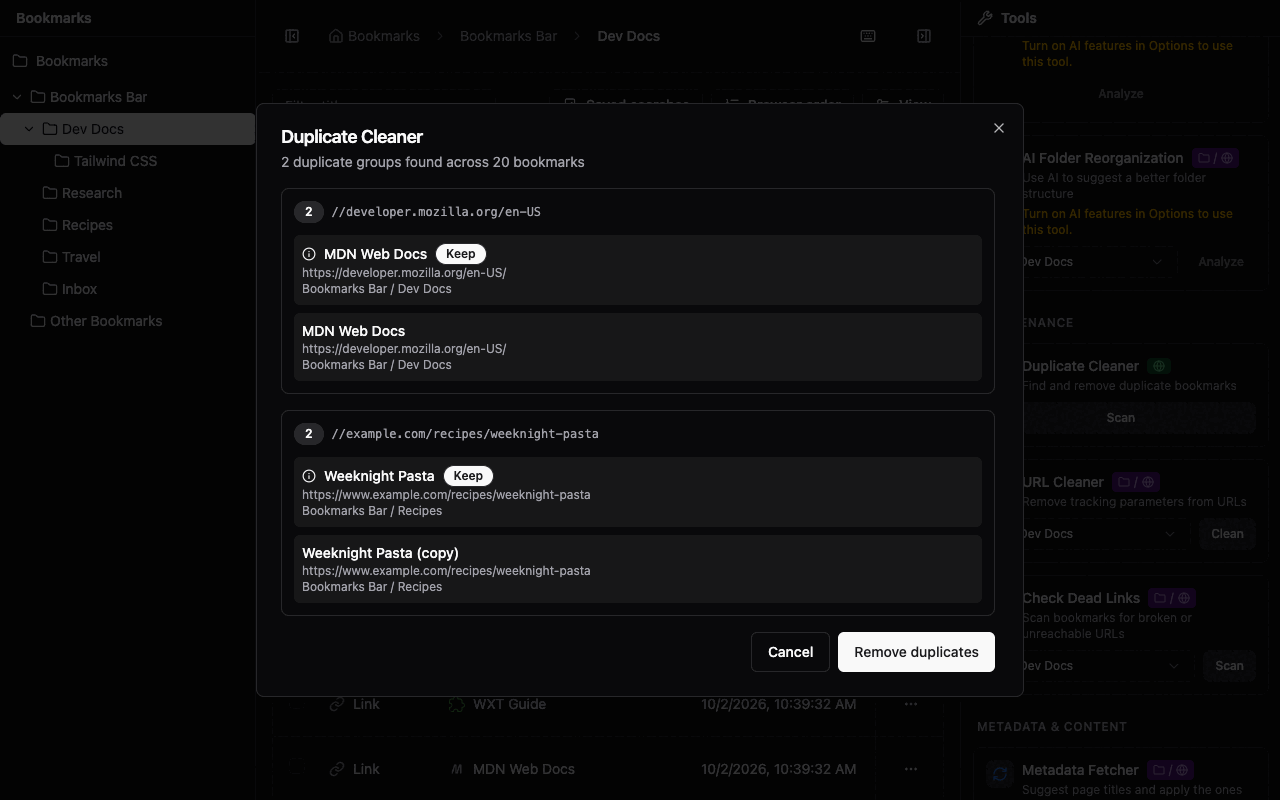
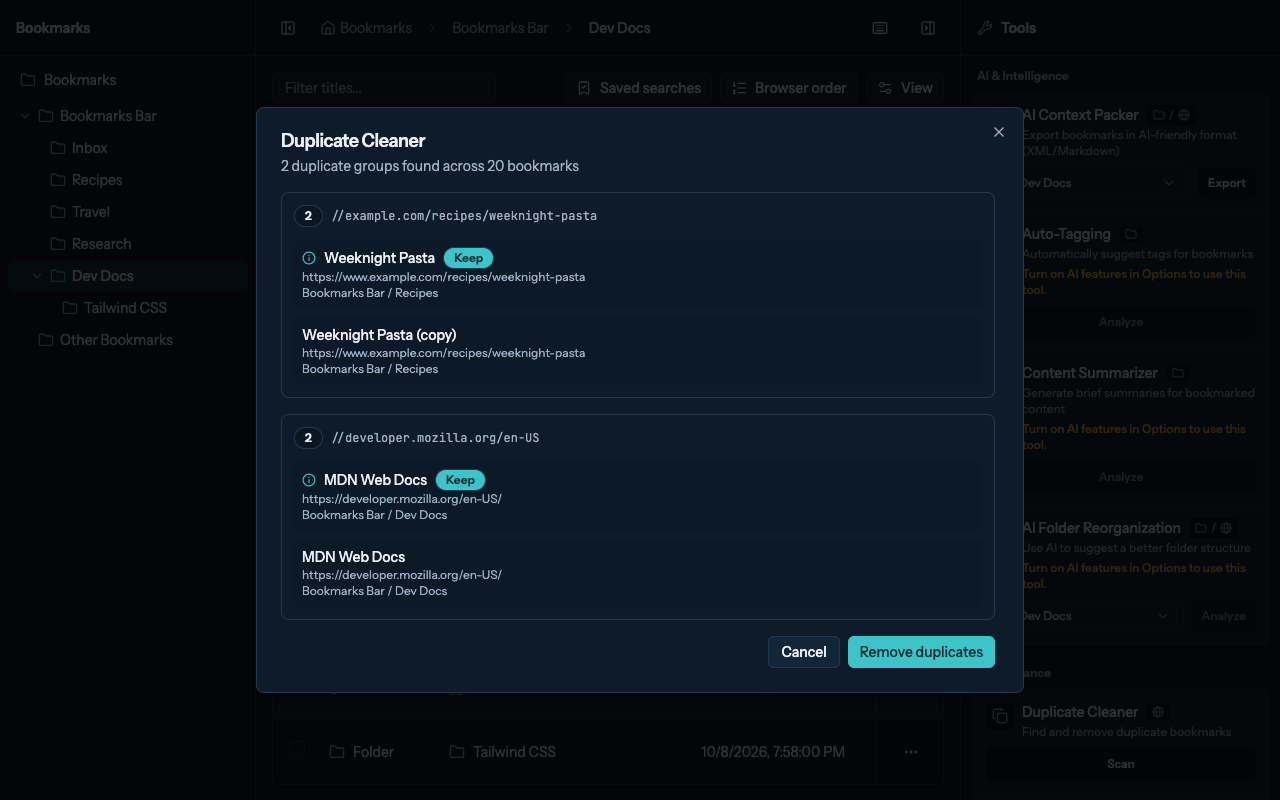
📸 docs(store): recapture store screenshots for the redesigned UI
- Recapture the popup, manager, and Duplicate Cleaner screenshots (light and
  dark) from the current build, with real site icons and synthetic bookmarks.
- Add a padded 128 px store icon (artwork 96 px tall) for the listing only;
  the packaged toolbar icons are unchanged.
- Add store/ai-asset-prompts.md: prompts, input files, and output paths for
  generating the marquee tile, promo tile, logo master, and video bumpers.

diff --git a/store/ai-asset-prompts.md b/store/ai-asset-prompts.md
@@ -1,0 +1,97 @@
+# AI Asset Prompts (Chrome Web Store)
+
+Prompts for an external image and video model to make the Bookmark Scout store artwork. Paths are relative to the repository root.
+
+## Rules for every asset
+
+- **Never generate screenshots or product UI.** Store screenshots and the demo part of the video must show the real extension (`store/screenshots/`, captured with the `extension-exploratory-qa` runner). AI-drawn UI misrepresents the product.
+- **Never let the model draw the logo or the name.** Leave empty space and place the real logo and text afterwards. Models distort logos and misspell text.
+- **Brand:** calm "map reader" look: paper, ink, compass. Gradient only `#2bb3b1` → `#4f6ce0` → `#8a3fd1`. Paper `#f4f7fb` (light) or `#0d1b2a` (dark). Ink `#0f2135`. Marker highlight `#ffe27a`. Flat vector, soft shadows, no people.
+- **Store image format:** exact pixel size, JPEG or 24-bit PNG, **no alpha**. Convert after generating:
+  ```bash
+  magick <file>.png -alpha off -type TrueColor -define png:color-type=2 <file>.png
+  ```
+
+## Input files (upload as references)
+
+| File | Size | Use |
+| --- | --- | --- |
+| `apps/extension/public/icon-128.png` | 128×128, real transparency | Logo reference for shape and colors |
+| `apps/website/public/icon.png` | 128×128, real transparency | Same logo, website copy |
+| `store/assets/icon-original.png` | 2048×2048, **no alpha** | High-resolution logo. The grey checkerboard is painted into the pixels, not real transparency; tell the model to ignore it |
+| `store/screenshots/promo-small-440x280.png` | 440×280 | Current small tile, for comparison only |
+
+## Output files
+
+Save raw model outputs outside the repository in `~/.cache/bookmark-scout-assets/raw/`. Put only the final, converted files at these paths:
+
+| Asset | Final path | Size | Required |
+| --- | --- | --- | --- |
+| Logo master | `store/assets/logo-master-2048.png` | 2048×2048, real transparency | Source for the icon below |
+| Store icon | `store/assets/store-icon-128.png` | 128×128, artwork about 96×96 centered | Exists (made from `icon-128.png`); regenerate from the master for a sharper result |
+| Marquee promo tile | `store/assets/marquee-1400x560.png` | 1400×560, no alpha | Optional, needed for homepage features |
+| Small promo tile | `store/screenshots/promo-small-440x280.png` (replace) | 440×280, no alpha | Yes, already uploaded once |
+| Video intro | `~/.cache/bookmark-scout-assets/video/intro.mp4` | 1920×1080, 3 to 5 s | For the YouTube promo video |
+| Video outro | `~/.cache/bookmark-scout-assets/video/outro.mp4` | 1920×1080, 3 to 5 s | For the YouTube promo video |
+
+Videos stay out of the repository; the store takes a YouTube URL.
+
+## 1. Logo master (clean transparency)
+
+Input: `store/assets/icon-original.png`.
+
+```text
+Recreate this exact logo as a clean vector-style image, 2048x2048 px, on a truly transparent background. The grey and white checkerboard in the input is not part of the logo; remove it completely. Keep the shape, proportions, and colors identical: a bookmark ribbon with a notched bottom, a magnifier ring on top with a handle to the lower right, and an eight-point compass star inside the ring, colored with a teal-to-violet gradient (#2bb3b1 to #4f6ce0 to #8a3fd1). Do not add text, shadows, or a background. Center the artwork with equal padding.
+```
+
+Then make the store icon (artwork about 96 px on a 128 px canvas):
+
+```bash
+magick store/assets/logo-master-2048.png -trim -resize 96x96 -gravity center -background none -extent 128x128 store/assets/store-icon-128.png
+```
+
+## 2. Marquee promo tile (1400×560)
+
+Input: `apps/extension/public/icon-128.png` (style reference only).
+
+```text
+Wide banner, exactly 1400x560 px, for a browser extension called "Bookmark Scout". Calm, premium, minimal. Background: soft paper white #f4f7fb with a very faint topographic map contour pattern and a subtle compass rose in the far right, low contrast. Left third: leave clean empty space for a logo and the name (do not draw any text or letters). Right two thirds: an abstract composition of floating bookmark ribbons and folder shapes arranged like a tidy map, a few connected by thin dotted route lines, one ribbon highlighted with a soft yellow marker glow #ffe27a. Color accents only from a teal-to-violet gradient #2bb3b1 to #4f6ce0 to #8a3fd1, ink color #0f2135 for thin line work. Flat vector illustration, soft shadows, no 3D, no people, no browser UI, no text, no watermark. Opaque background, no transparency.
+```
+
+Afterwards: place `store/assets/logo-master-2048.png` (about 200 px tall) and "Bookmark Scout" in Bricolage Grotesque, ink `#0f2135`, in the empty left third.
+
+## 3. Small promo tile (440×280)
+
+Input: `apps/extension/public/icon-128.png` (style reference only).
+
+```text
+Small tile, exactly 440x280 px, for the browser extension "Bookmark Scout". Centered composition: leave a clear empty square in the center (about 140x140 px) for the app logo; do not draw a logo or any text. Around it: a soft radial glow in the teal-to-violet gradient #2bb3b1 to #4f6ce0 to #8a3fd1 at low opacity, a faint topographic contour pattern, and two or three small bookmark ribbon shapes orbiting at the edges. Background paper white #f4f7fb. Flat vector, minimal, calm, readable at small size. No text, no letters, no UI, no watermark. Opaque background, no transparency.
+```
+
+Afterwards: place the logo (about 120 px) in the center. Google's guidance is to avoid text on promo tiles, so the name is optional.
+
+## 4. Video intro and outro (16:9)
+
+Input: `store/assets/logo-master-2048.png` (color reference only).
+
+Intro:
+
+```text
+5-second brand intro, 16:9, 1920x1080. A single bookmark ribbon in a teal-to-violet gradient (#2bb3b1 to #8a3fd1) unfurls on a paper-white background (#f4f7fb) with faint topographic map lines; a small compass star spins once and settles on the ribbon, then the scene gently fades to plain #f4f7fb, leaving empty space in the center for a logo. Calm, smooth, slow camera, flat vector motion-graphics style. No text, no people, no browser interface.
+```
+
+Outro:
+
+```text
+4-second brand outro, 16:9, 1920x1080. Paper-white background (#f4f7fb) with faint topographic map lines drifting slowly; a soft teal-to-violet glow (#2bb3b1 to #8a3fd1) pulses once in the center, leaving a clean empty center area for a logo and a website address. Calm, flat vector motion-graphics style. No text, no people, no browser interface.
+```
+
+Afterwards: overlay the logo, and on the outro add `bookmark-scout.com`. The middle 30 to 45 seconds is a real screen recording of the extension (popup search and save, manager, Duplicate Cleaner, AI folder suggestions) made from the built extension with synthetic bookmarks.
+
+## Check before uploading
+
+```bash
+sips -g pixelWidth -g pixelHeight -g hasAlpha store/assets/marquee-1400x560.png store/screenshots/promo-small-440x280.png store/assets/store-icon-128.png
+```
+
+Tiles must report `hasAlpha: no`. The 128 px icon may keep transparency.

diff --git a/store/README.md b/store/README.md
@@ -102,7 +102,7 @@ Suggested order for the Chrome Web Store (5 maximum): 01, 02, 03, 04, 06. Firefo
 - Theme left at the default `system`; light and dark come from the emulated OS color scheme, so Options shows no "Modified" badges.
 - The runner opens the popup as a tab, so its "current tab" would be the popup itself. The capture script stubbed `tabs.query` for the active tab to return a public MDN page instead. No other behavior was changed.
 - Site icons are real: before capturing, the script ran **Refresh Site Icons** over all bookmarks and saved the results, in a copy of the build whose manifest grants the optional website access (as the E2E `grantWebHostAccess` fixture does, because the permission prompt cannot be answered headlessly). Icons came only from the bookmarked sites. Sites without a usable same-site icon (`developer.chrome.com`, `example.com`, `example.org`) keep the generic globe, as they would for a user.
-- Recaptured on 2026-10-02 from `main` after the Refresh Site Icons tool landed (#501). The two Options captures (`04-options-ai-light.png`, `08-options-ai-dark.png`) were recaptured on 2026-10-08 for the redesigned Options page and the new AI toggle text; they are plain 1280×800 page captures of `options.html` with the AI section selected. The same eight files are copied to `apps/website/public/screenshots/` and `apps/docs/public/screenshots/`; the website generates its AVIF and WebP variants from them at build time.
+- Recaptured on 2026-10-02 from `main` after the Refresh Site Icons tool landed (#501). All eight were recaptured on 2026-10-08 for the redesigned UI: the popup pair (`01`, `05`) is composed from two 400×500 popup captures on the brand paper color with the Bricolage Grotesque heading, and the other six are plain 1280×800 page captures. A padded store icon (`store/assets/store-icon-128.png`, artwork 96 px tall on a 128 px canvas) is used for the store listing only; the packaged toolbar icons are unchanged.
 - Raw captures stay in `~/.cache/bookmark-scout-qa/store-icons/` (not committed). Curated files were re-encoded with ImageMagick (reduced palette, saved as 24-bit RGB without alpha) to keep each file around 75 to 130 KB.
 
 Screenshots show the English UI. Localized screenshots for `ja` and `ko` were not produced; the stores accept the English set for every locale.
